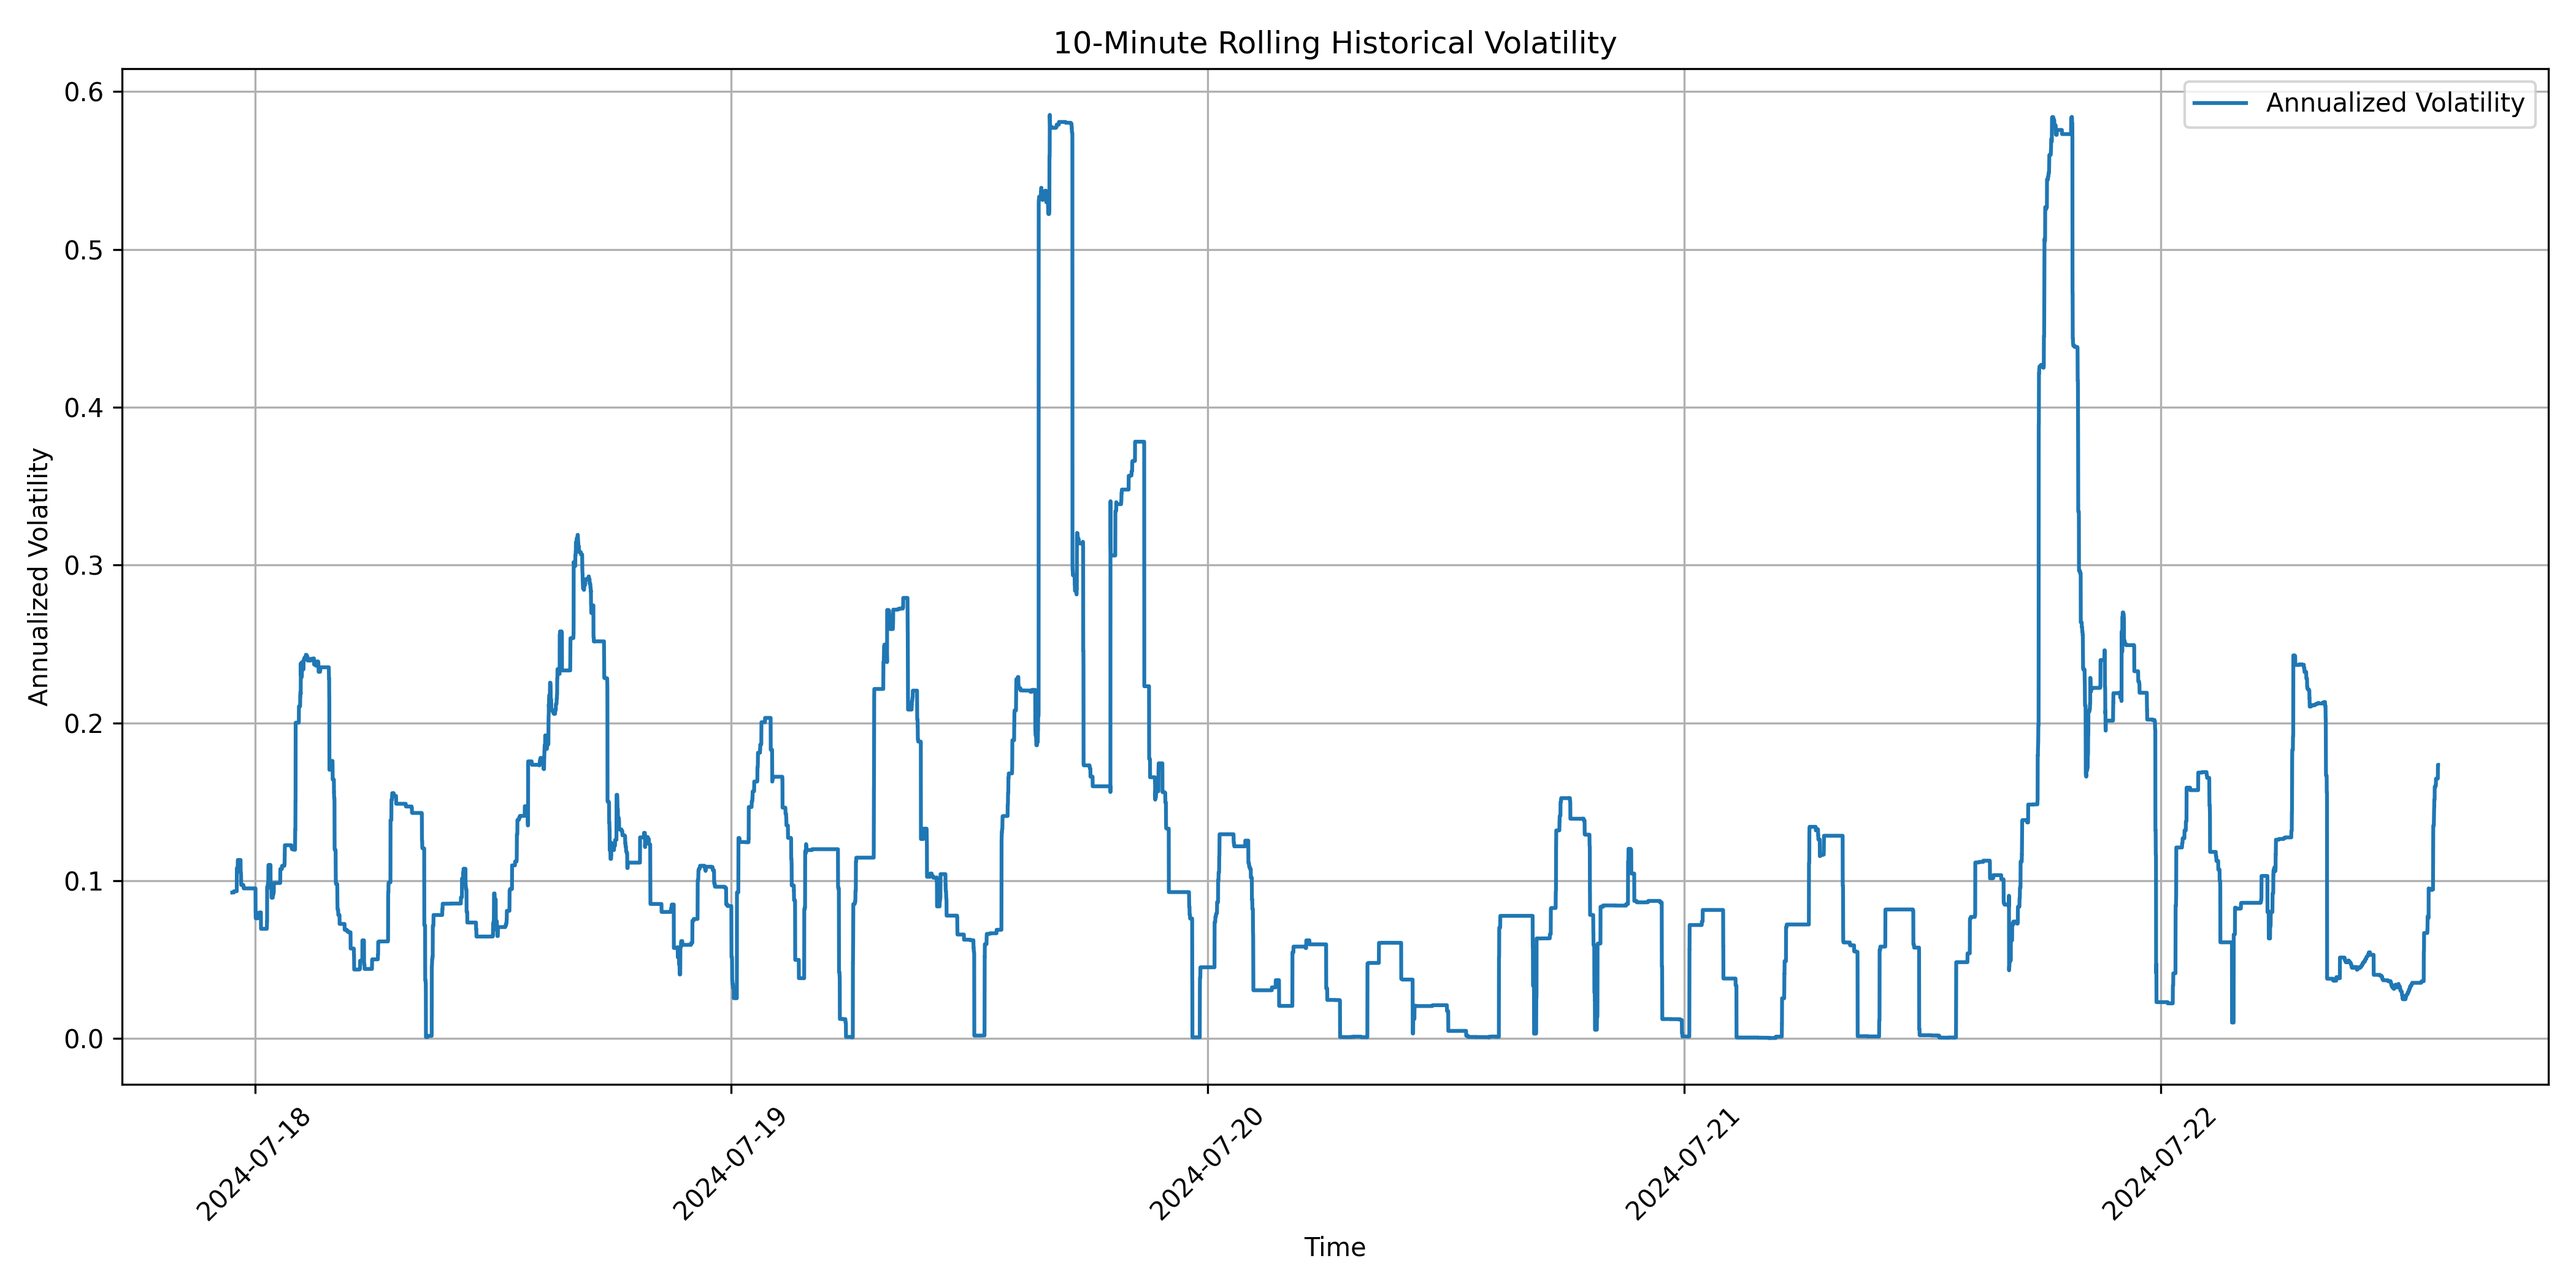
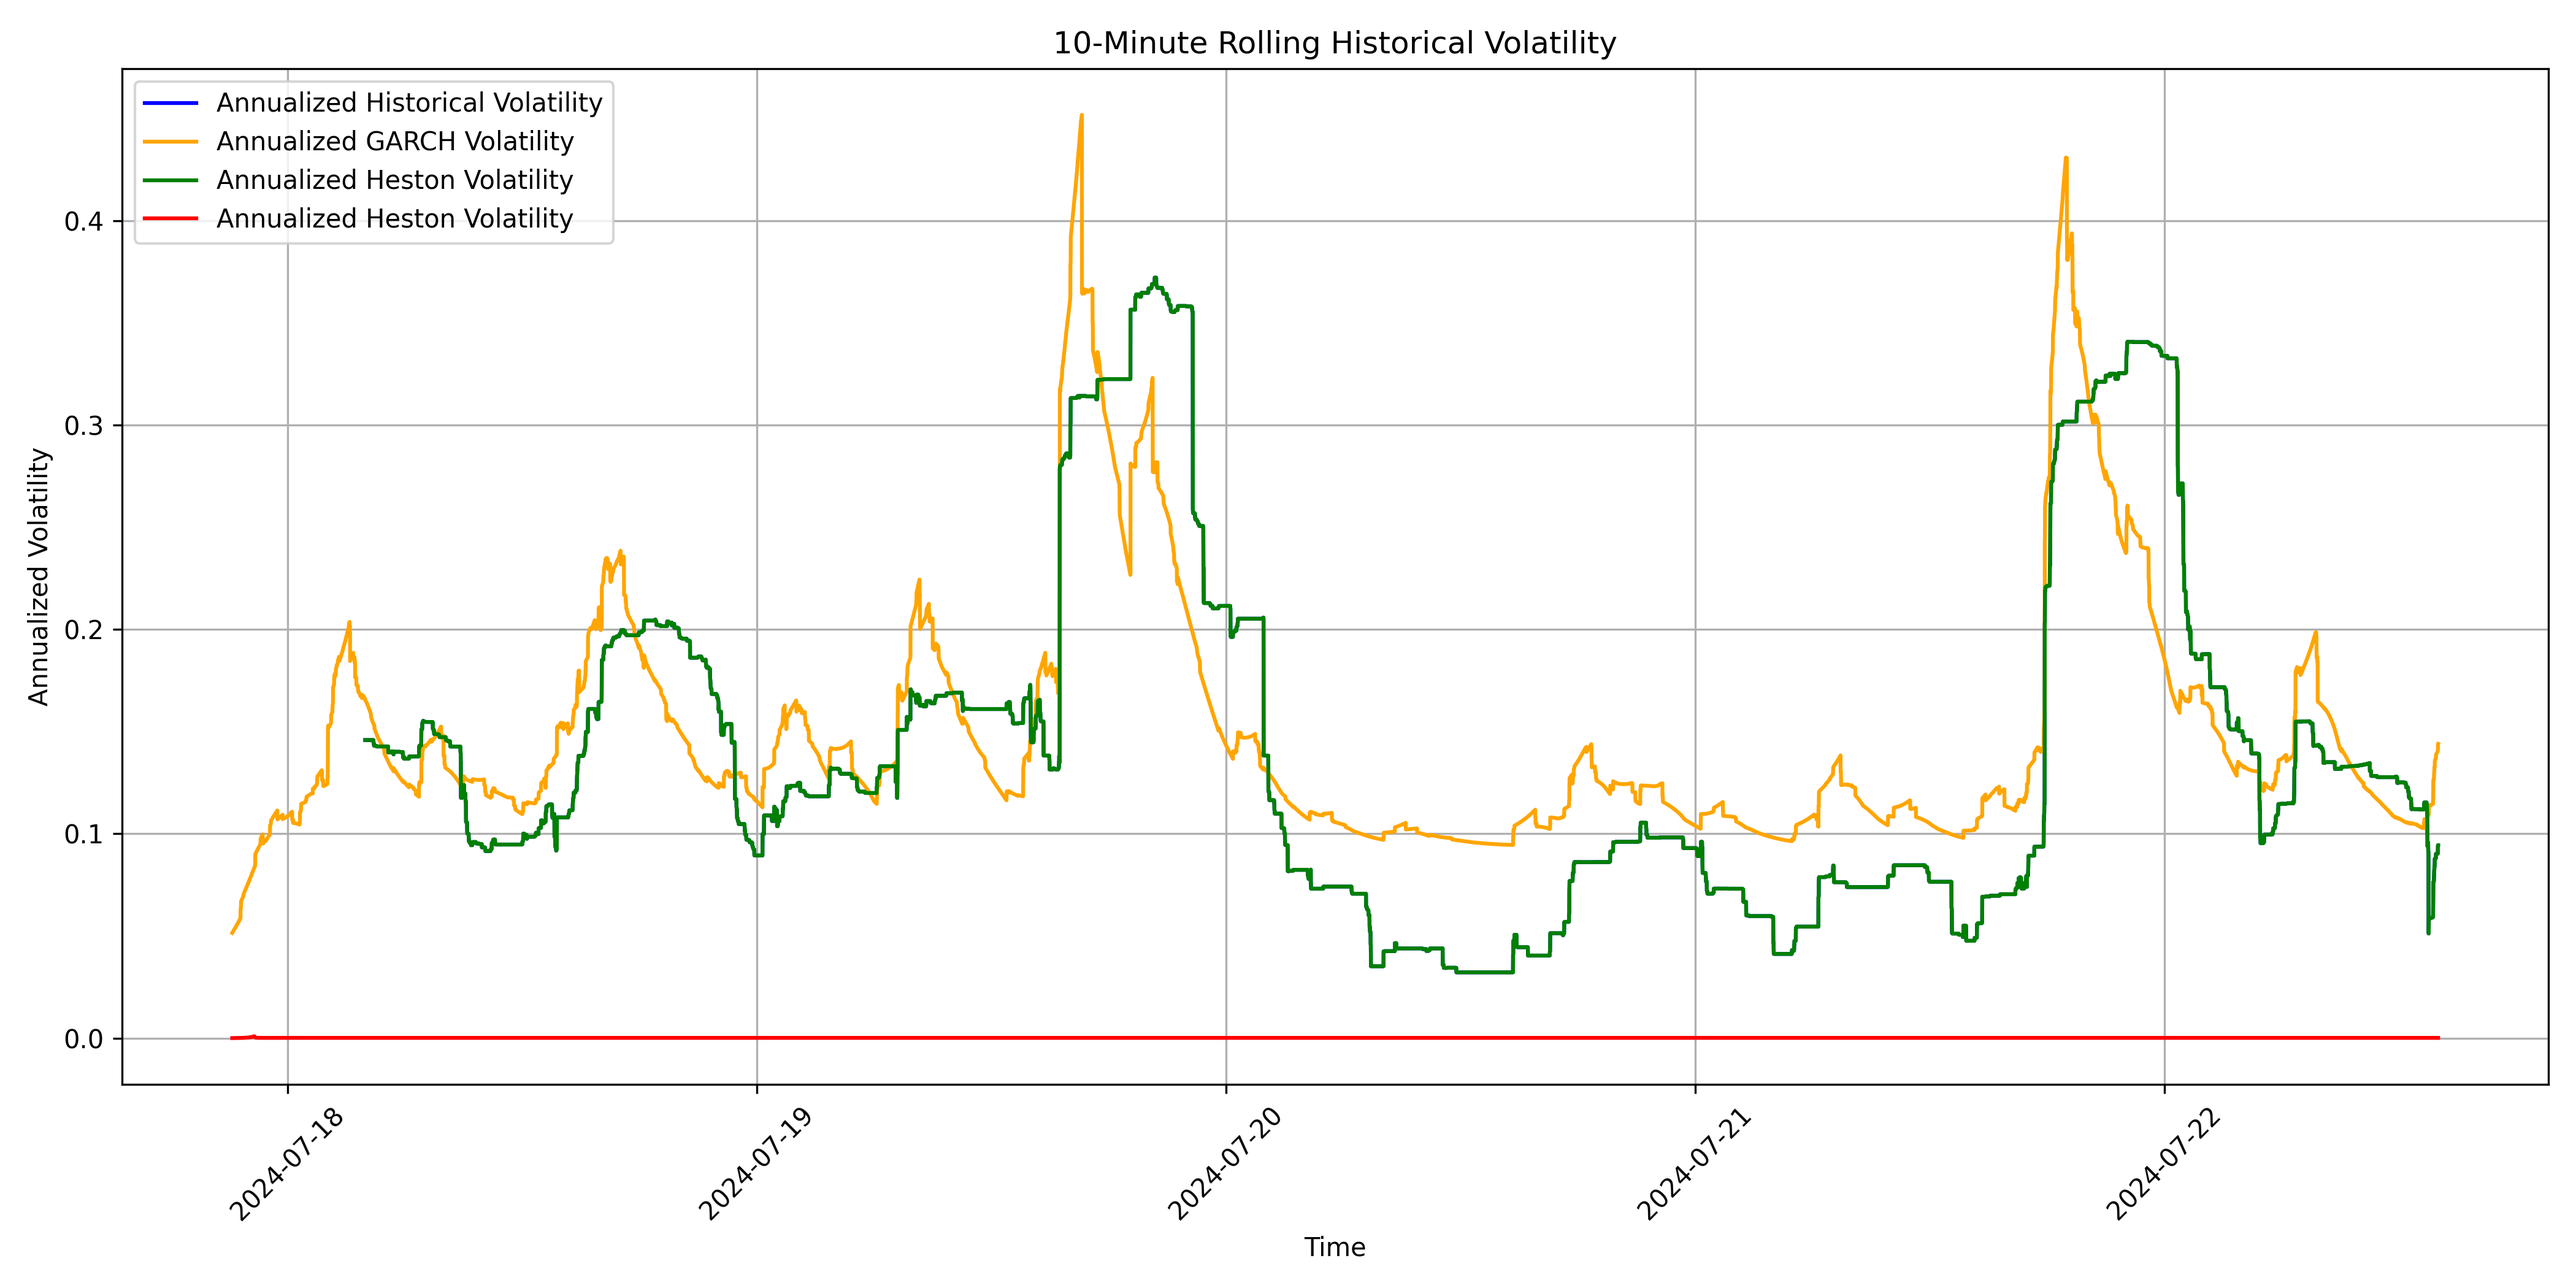
added hv different lookback period graph

diff --git a/graph_volatility_models.py b/graph_volatility_models.py
@@ -1,38 +1,116 @@
 import pandas as pd
 import numpy as np
 import matplotlib.pyplot as plt
+from arch import arch_model
 
 # Load data
 csv_file = './uniswap_data_ratio/ETHUSDT_price_ratio.csv'
 data = pd.read_csv(csv_file)
 
-# Convert Timestamp column to datetime data type
-data['Timestamp'] = pd.to_datetime(data['Timestamp'])
+def vol_by_hisotrical_volatility(data):
+    # Convert Timestamp column to datetime data type
+    df= data.copy()
+    df['Timestamp'] = pd.to_datetime(df['Timestamp'])
 
-# Sort by Timestamp
-data.sort_values('Timestamp', inplace=True)
+    # Sort by Timestamp
+    df.sort_values('Timestamp', inplace=True)
 
-# Calculate log returns
-data['log_return'] = np.log(data['Price Ratio'] / data['Price Ratio'].shift(1))
-print(data['log_return'].head())
+    # Calculate log returns
+    df['log_return'] = np.log(df['Price Ratio'] / df['Price Ratio'].shift(1))
+    print(df['log_return'].head())
 
-# Define lookback window
-lookback_period = 6 * 100 # 60 data points for 10 minutes
+    # Define lookback window
+    lookback_period = 6 * 400 # 60 data points for 10 minutes
 
-# Calculate rolling standard deviation of log returns
-data['rolling_vol'] = data['log_return'].rolling(window=lookback_period).std()
+    # Calculate rolling standard deviation of log returns
+    df['rolling_vol'] = df['log_return'].rolling(window=lookback_period).std()
 
-# Annualize the rolling volatility
-# Since we are calculating per 10-second volatility, annualization factor is sqrt(10-second intervals in a year)
-intervals_per_year = 365 * 24 * 60 * 6  # 6 intervals per minute, 60 minutes per hour, 24 hours per day, 365 days per year
-data['annualized_vol'] = data['rolling_vol'] * np.sqrt(intervals_per_year)
+    # Annualize the rolling volatility
+    # Since we are calculating per 10-second volatility, annualization factor is sqrt(10-second intervals in a year)
+    intervals_per_year = 365 * 24 * 60 * 6  # 6 intervals per minute, 60 minutes per hour, 24 hours per day, 365 days per year
+    df['hv_vol'] = df['rolling_vol'] * np.sqrt(intervals_per_year)
 
-# Drop NaN values that result from the rolling operation
-data.dropna(subset=['annualized_vol'], inplace=True)
+    # Drop NaN values that result from the rolling operation
+    df.dropna(subset=['hv_vol'], inplace=True)
+
+    return df
+
+def vol_by_garch(data):
+    df = data.copy()
+    # Convert Timestamp column to datetime data type
+    df['Timestamp'] = pd.to_datetime(df['Timestamp'])
+
+    # Sort by Timestamp
+    df.sort_values('Timestamp', inplace=True)
+
+    # Calculate log returns
+    df['log_return'] = np.log(df['Price Ratio'] / df['Price Ratio'].shift(1))
+    print(df['log_return'].head())
+
+    # Fit GARCH(1,1) model
+    garch_model = arch_model(df['log_return'].dropna(), vol='Garch', p=400, q=400)
+    garch_fit = garch_model.fit(disp='off')
+
+    # Extract conditional volatility (annualized)
+    intervals_per_year = 365 * 24 * 60 * 6  # 6 intervals per minute, 60 minutes per hour, 24 hours per day, 365 days per year
+    df['garch_vol'] = garch_fit.conditional_volatility * np.sqrt(intervals_per_year)
+
+    return df
+
+def vol_by_egarch(data):
+    df = data.copy()
+    df['Timestamp'] = pd.to_datetime(df['Timestamp'])
+    df.sort_values('Timestamp', inplace=True)
+    df['log_return'] = np.log(df['Price Ratio'] / df['Price Ratio'].shift(1))
+    
+    # Fit EGARCH(1,1) model
+    egarch_model = arch_model(df['log_return'].dropna(), vol='EGarch', p=400, q=400, rescale=False)
+    egarch_fit = egarch_model.fit(disp='off')
+    
+    # Extract conditional volatility (annualized)
+    intervals_per_year = 365 * 24 * 60 * 6  # Annualize the volatility
+    df['egarch_vol'] = egarch_fit.conditional_volatility / 10000 * np.sqrt(intervals_per_year)
+    return df
+
+def vol_by_heston(data):
+    df = data.copy()
+    # Convert Timestamp column to datetime data type
+    df['Timestamp'] = pd.to_datetime(df['Timestamp'])
+
+    # Sort by Timestamp
+    df.sort_values('Timestamp', inplace=True)
+
+    # Calculate log returns
+    df['log_return'] = np.log(df['Price Ratio'] / df['Price Ratio'].shift(1))
+    print(df['log_return'].head())
+
+    # Placeholder Heston model
+    # Here we use the same rolling window approach as a simplified proxy for Heston model.
+    lookback_period = 6 * 400 # 60 data points for 10 minutes
+
+    # Calculate rolling mean and standard deviation of log returns
+    df['heston_vol'] = df['log_return'].rolling(window=lookback_period).std()
+
+    # Annualize the rolling volatility
+    intervals_per_year = 365 * 24 * 60 * 6  # 6 intervals per minute, 60 minutes per hour, 24 hours per day, 365 days per year
+    df['heston_vol'] = df['heston_vol'] * np.sqrt(intervals_per_year)
+
+    # Drop NaN values that result from the rolling operation
+    df.dropna(subset=['heston_vol'], inplace=True)
+
+    return df
+
+hv_data = vol_by_hisotrical_volatility(data)
+gar_data = vol_by_garch(data)
+hes_data = vol_by_heston(data)
+egar_data = vol_by_egarch(data)
 
 # Plot the annualized volatility with a line chart
 fig, ax = plt.subplots(figsize=(14, 7))
-ax.plot(data['Timestamp'], data['annualized_vol'], label='Annualized Volatility')
+ax.plot(hv_data['Timestamp'], hv_data['hv_vol'], label='Annualized Historical Volatility', color='blue')
+ax.plot(gar_data['Timestamp'], gar_data['garch_vol'], label='Annualized GARCH Volatility', color='orange')
+ax.plot(hes_data['Timestamp'], hes_data['heston_vol'], label='Annualized Heston Volatility', color='green')
+ax.plot(egar_data['Timestamp'], egar_data['egarch_vol'], label='Annualized Heston Volatility', color='red')
 plt.xlabel('Time')
 plt.ylabel('Annualized Volatility')
 plt.title('10-Minute Rolling Historical Volatility')

diff --git a/optimze_lookback_period.py b/optimze_lookback_period.py
@@ -1,0 +1,66 @@
+import pandas as pd
+import numpy as np
+import matplotlib.pyplot as plt
+from arch import arch_model
+
+# Load data
+csv_file = './uniswap_data_ratio/ETHUSDT_price_ratio.csv'
+data = pd.read_csv(csv_file)
+
+def vol_by_hisotrical_volatility(data, period:int):
+    # Convert Timestamp column to datetime data type
+    df= data.copy()
+    df['Timestamp'] = pd.to_datetime(df['Timestamp'])
+
+    # Sort by Timestamp
+    df.sort_values('Timestamp', inplace=True)
+
+    # Calculate log returns
+    df['log_return'] = np.log(df['Price Ratio'] / df['Price Ratio'].shift(1))
+    print(df['log_return'].head())
+
+    # Define lookback window
+    lookback_period = 6 * period # 60 data points for 10 minutes
+
+    # Calculate rolling standard deviation of log returns
+    df['rolling_vol'] = df['log_return'].rolling(window=lookback_period).std()
+
+    # Annualize the rolling volatility
+    # Since we are calculating per 10-second volatility, annualization factor is sqrt(10-second intervals in a year)
+    intervals_per_year = 365 * 24 * 60 * 6  # 6 intervals per minute, 60 minutes per hour, 24 hours per day, 365 days per year
+    df['hv_vol'] = df['rolling_vol'] * np.sqrt(intervals_per_year)
+
+    # Drop NaN values that result from the rolling operation
+    df.dropna(subset=['hv_vol'], inplace=True)
+
+    return df
+
+data1 = vol_by_hisotrical_volatility(data.copy(),10)
+data2 = vol_by_hisotrical_volatility(data.copy(),20)
+data3 = vol_by_hisotrical_volatility(data.copy(),60)
+data4 = vol_by_hisotrical_volatility(data.copy(),100)
+data5 = vol_by_hisotrical_volatility(data.copy(),150)
+data6 = vol_by_hisotrical_volatility(data.copy(),200)
+data7 = vol_by_hisotrical_volatility(data.copy(),250)
+data8 = vol_by_hisotrical_volatility(data.copy(),300)
+
+fig, ax = plt.subplots(figsize=(14, 7))
+ax.plot(data1['Timestamp'], data1['hv_vol'], label='period 10', color='red')
+ax.plot(data2['Timestamp'], data2['hv_vol'], label='period 20', color='orange')
+ax.plot(data3['Timestamp'], data3['hv_vol'], label='period 60', color='yellow')
+ax.plot(data4['Timestamp'], data4['hv_vol'], label='period 100', color='green')
+ax.plot(data5['Timestamp'], data5['hv_vol'], label='period 150', color='blue')
+ax.plot(data6['Timestamp'], data6['hv_vol'], label='period 200', color='purple')
+ax.plot(data7['Timestamp'], data7['hv_vol'], label='period 250', color='blue')
+ax.plot(data8['Timestamp'], data8['hv_vol'], label='period 300', color='grey')
+
+plt.xlabel('Time')
+plt.ylabel('Annualized Volatility')
+plt.title('Different Period Rolling Historical Volatility')
+plt.legend()
+plt.grid(True)
+plt.xticks(rotation=45)
+plt.tight_layout()
+
+plt.show()
+
